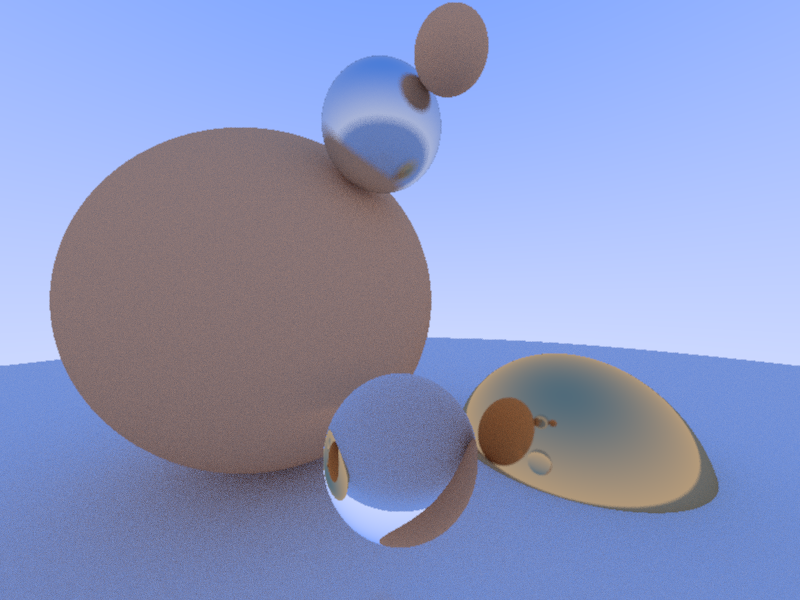
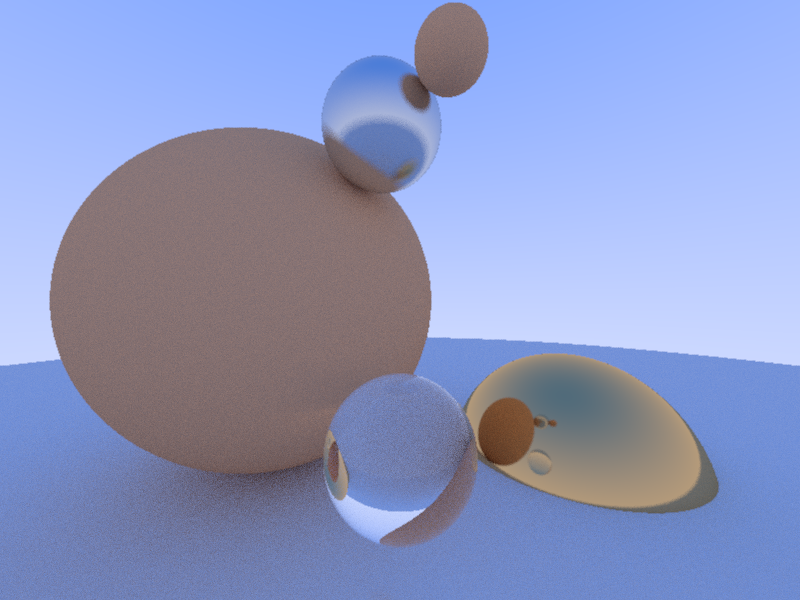
Added random reflection to glass material. Reflection coefficient based on Schlick's approximation.

Changed region(s): [[0.4375, 0.63, 0.5938, 0.93], [0.25, 0.69, 0.4375, 0.87], [0.4375, 0.63, 0.4688, 0.66]]

diff --git a/src/materials/glass.cpp b/src/materials/glass.cpp
@@ -8,29 +8,49 @@ Glass::Glass(double material_refract_idx, double p) : p(p)
     outward_refract_idx = material_refract_idx;
 }
 
-Vec3 Glass::refract(const Vec3 &in_dir, const Vec3 normal, double refract_idx)
+double Glass::reflection_coeff(double refraction, double cosine_theta)
 {
-    Vec3 tangent = in_dir - std::fmax(dot(in_dir, normal), -1.0) * normal;
-    Vec3 out_dir_tangent = refract_idx * tangent;
-    Vec3 out_dir_normal = -std::sqrt(std::fabs(1 - out_dir_tangent.norm2())) * normal;
-    return out_dir_tangent + out_dir_normal;
+    // This calculation is based on Schlick's approximation
+    double R_0 = (1 - refraction)*(1 - refraction) / ((1 + refraction)*(1 + refraction));
+    double R_theta = R_0 + (1 - R_0) * std::pow(1 - cosine_theta, 5);
+    return R_theta;
 }
 
-bool Glass::scatter(const Ray& in, const Point hit_point, const Vec3 &normal, [[maybe_unused]] Random &randomizer,
+bool Glass::scatter(const Ray& in, const Point hit_point, const Vec3 &normal, Random &randomizer,
                         Ray &out, Color &attenuation) const
 { 
-    double cur_refract_idx = inward_refract_idx;
-    Vec3 cur_normal = normal;
+    // Calculate properties related to surface orientation
+    double eff_refract_idx = inward_refract_idx;
+    Vec3 eff_normal = normal;
     if (dot(in.direction(), normal) > 0) 
     {
         // Ray is going from inside to outside,
         // so effective refraction index has to be flipped (inversed),
-        // and the normal has to point inward for the refraction calculations.
-        cur_refract_idx = outward_refract_idx;
-        cur_normal = -normal;
+        // and the normal has to point inward.
+        eff_refract_idx = outward_refract_idx;
+        eff_normal = -normal;
     }
-    Vec3 refract_dir = Glass::refract(unit(in.direction()), cur_normal, cur_refract_idx);
-    out = Ray(hit_point, refract_dir);
+
+    // Calculate refracted ray
+    Vec3 in_dir = unit(in.direction());
+    double cosine_theta = dot(in_dir, eff_normal);
+    Vec3 projection = cosine_theta * eff_normal;
+    Vec3 tangent = in_dir - projection;
+    Vec3 out_dir_tangent = eff_refract_idx * tangent;
+    double tg_norm2 = out_dir_tangent.norm2();
+    if (tg_norm2 > 1 &&  // Total internal reflection
+        Glass::reflection_coeff(eff_refract_idx, -cosine_theta) > randomizer.gen_uniform()) // Ray randomly reflected
+    {
+        // Ray is reflected instead of refracted
+        out = Ray(hit_point, in_dir - 2 * projection);
+    }
+    else
+    {
+        // Finish calculating refracted ray
+        Vec3 out_dir_normal = -std::sqrt(std::fabs(1 - tg_norm2)) * eff_normal;
+        out = Ray(hit_point, out_dir_tangent + out_dir_normal);
+    }
+
     attenuation = color;
     return p>0;
 }

diff --git a/src/tracer.cpp b/src/tracer.cpp
@@ -55,7 +55,7 @@ void Tracer::CreateBookScene()
     sky_blue = Color(0.5, 0.7, 1.0);
     auto material_ground = make_shared<Lambertian>(Color(0.8, 0.8, 0.0));
     auto material_center = make_shared<Lambertian>(Color(0.1, 0.2, 0.5));
-    auto material_left = make_shared<Glass>(1.50, 1);
+    auto material_left = make_shared<Glass>(1.0 / 1.50, 1);
     auto material_right = make_shared<Metal>(Color(0.8, 0.6, 0.2), 1.0);
     objs.push_back(make_shared<Sphere>(Point( 0.0, -100.5, -1.0), 100.0, material_ground));
     objs.push_back(make_shared<Sphere>(Point( 0.0,    0.0, -1.2),   0.5, material_center));

diff --git a/src/image.cpp b/src/image.cpp
@@ -9,7 +9,7 @@
 #define MAX_COLOR 255
 #define GAMMA 2.2
 #define SAMPLES_PER_PIXEL 50
-#define RAY_BOUNCE_LIMIT 30
+#define RAY_BOUNCE_LIMIT 50
 
 Image::Image(const std::string &filename, Tracer *tracer, Viewport *view) : 
         filename(filename), tracer(tracer), view(view), width(view->screen_width), height(view->screen_height) {}

diff --git a/src/materials/glass.h b/src/materials/glass.h
@@ -19,7 +19,7 @@ class Glass : public Material
         double outward_refract_idx;
         double p;
 
-        static Vec3 refract(const Vec3 &in_dir, const Vec3 normal, double refract_idx);
+        static double reflection_coeff(double refraction, double cosine_theta);
 };
 
 
